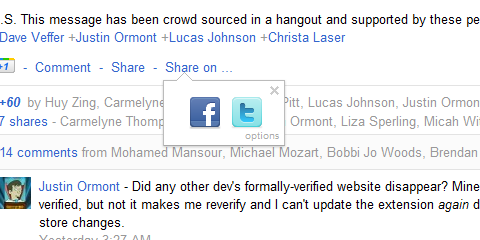
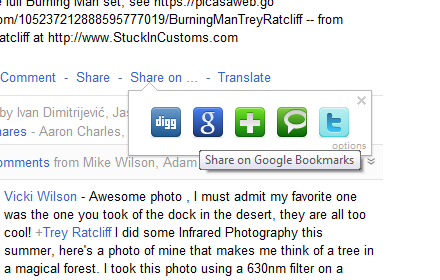
Update screenshots.

diff --git a/options.html b/options.html
@@ -6,7 +6,7 @@
   <link rel="stylesheet" type="text/css" href="/css/options.css" />
   <link rel="stylesheet" type="text/css" href="/css/options_custom.css" />
   <script type="text/javascript" src="/js/functions.js"></script>
-  <script type="text/javascript" src="/js/shares.js"></script>
+  <script type="text/javascript" src="/js/extended_shares.js"></script>
   <script type="text/javascript" src="/js/options.js"></script>
 </head>
 <body> 

diff --git a/background.html b/background.html
@@ -1,7 +1,7 @@
 <!DOCTYPE html> 
 <html> 
 <script type="text/javascript" src="/js/settings.js"></script>
-<script type="text/javascript" src="/js/shares.js"></script>
+<script type="text/javascript" src="/js/extended_shares.js"></script>
 <script type="text/javascript" src="/js/background_controller.js"></script>
 <script type="text/javascript">
   var backgroundController = new BackgroundController();
